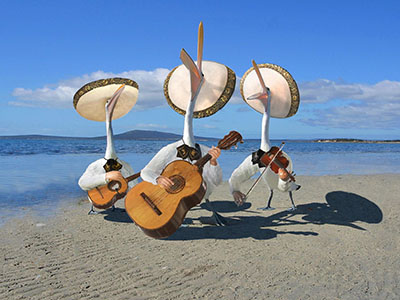
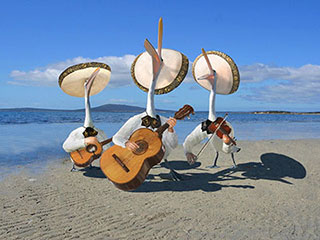
Optimized images

diff --git a/index.html b/index.html
@@ -101,16 +101,16 @@
 		<div class="container">
 			<h4>Block Grid</h4>
 			<div class="block-grid">
-				<div><img src="./img/scifiThumb.jpg" title="scifi small placeholder" alt="scifi small placeholder" /></div>
+				<div><img src="./img/scifiThumb.png" title="scifi small placeholder" alt="scifi small placeholder" /></div>
 				<div><img src="./img/scifi.jpg" title="scifi placeholder" alt="scifi placeholder" /></div>
 				<div><img src="./img/pelicans.jpg" title="pelican placeholder" alt="pelican placeholder" /></div>
-				<div><img src="./img/scifiThumb.jpg" title="scifi small placeholder" alt="scifi small placeholder" /></div>
+				<div><img src="./img/scifiThumb.png" title="scifi small placeholder" alt="scifi small placeholder" /></div>
 				<div><img src="./img/scifi.jpg" title="scifi placeholder" alt="scifi placeholder" /></div>
 				<div><img src="./img/pelicans.jpg" title="pelican placeholder" alt="pelican placeholder" /></div>
-				<div><img src="./img/scifiThumb.jpg" title="scifi small placeholder" alt="scifi small placeholder" /></div>
+				<div><img src="./img/scifiThumb.png" title="scifi small placeholder" alt="scifi small placeholder" /></div>
 				<div><img src="./img/scifi.jpg" title="scifi placeholder" alt="scifi placeholder" /></div>
 				<div><img src="./img/pelicans.jpg" title="pelican placeholder" alt="pelican placeholder" /></div>
-				<div><img src="./img/scifiThumb.jpg" title="scifi small placeholder" alt="scifi small placeholder" /></div>
+				<div><img src="./img/scifiThumb.png" title="scifi small placeholder" alt="scifi small placeholder" /></div>
 				<div><img src="./img/scifi.jpg" title="scifi placeholder" alt="scifi placeholder" /></div>
 				<div><img src="./img/pelicans.jpg" title="pelican placeholder" alt="pelican placeholder" /></div>
 			</div>
